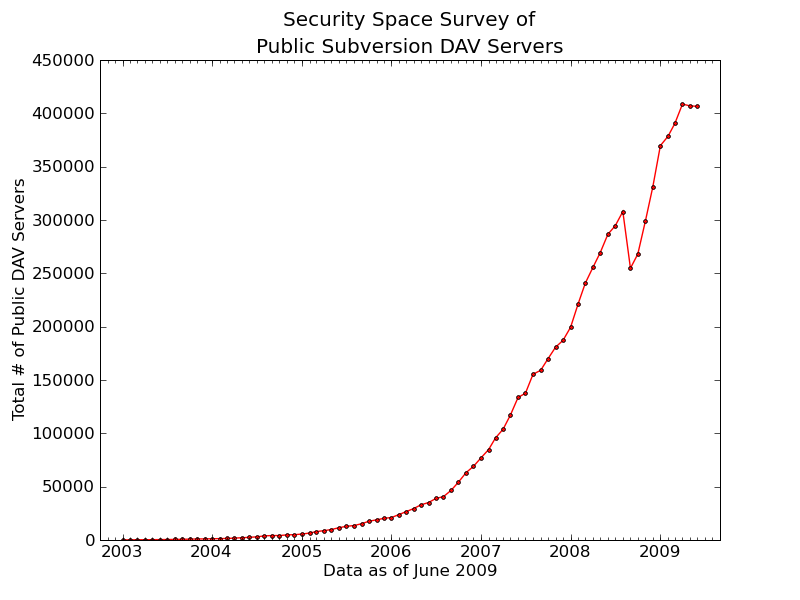
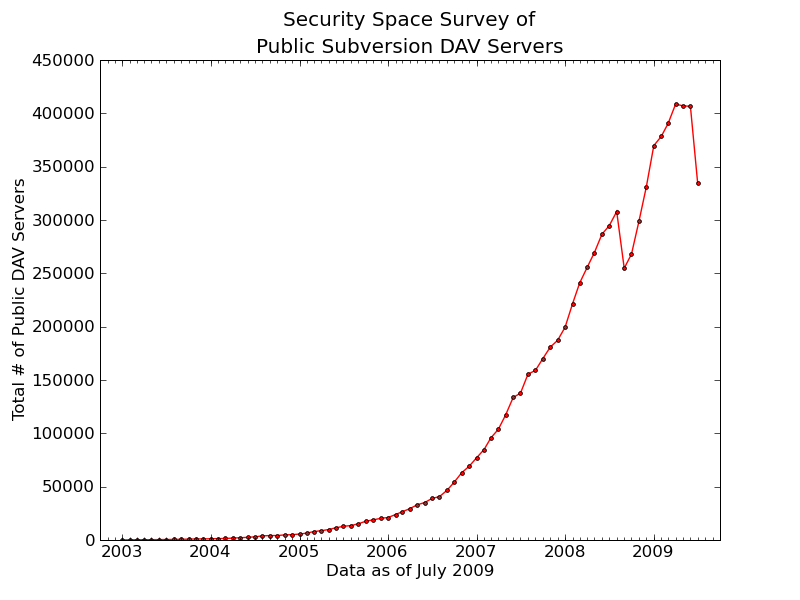
Update the dav server survey for July 2009.
* www/svn-dav-securityspace-survey.html,
  www/images/svn-dav-securityspace-survey.png,
  tools/dev/graph-dav-servers.py:
  Update image and table.

git-svn-id: http://svn.apache.org/repos/asf/subversion/trunk@878342 13f79535-47bb-0310-9956-ffa450edef68

diff --git a/www/svn-dav-securityspace-survey.html b/www/svn-dav-securityspace-survey.html
@@ -44,6 +44,7 @@ for <code>mod_dav_svn</code>.  Thanks Security Space!</p>
 <table style="margin-left: auto; margin-right: auto;" border="0"
   cellpadding="5" cellspacing="0">
   <tr><th>Date</th><th># Servers</th></tr>
+  <tr><td>July 2009</td><td style="text-align: right">334,276</td></tr>
   <tr><td>June 2009</td><td style="text-align: right">406,520</td></tr>
   <tr><td>May 2009</td><td style="text-align: right">407,044</td></tr>
   <tr><td>April 2009</td><td style="text-align: right">408,658</td></tr>

diff --git a/tools/dev/graph-dav-servers.py b/tools/dev/graph-dav-servers.py
@@ -102,6 +102,7 @@ STATS = [
   ('4/1/2009', 408658),
   ('5/1/2009', 407044),
   ('6/1/2009', 406520),
+  ('7/1/2009', 334276),
   ]
 
 
